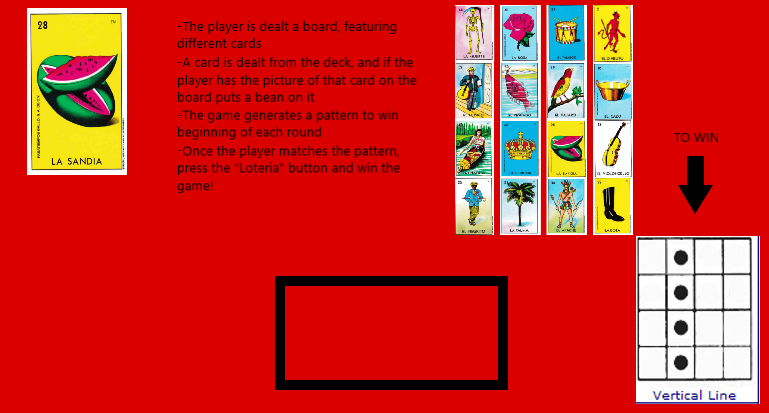
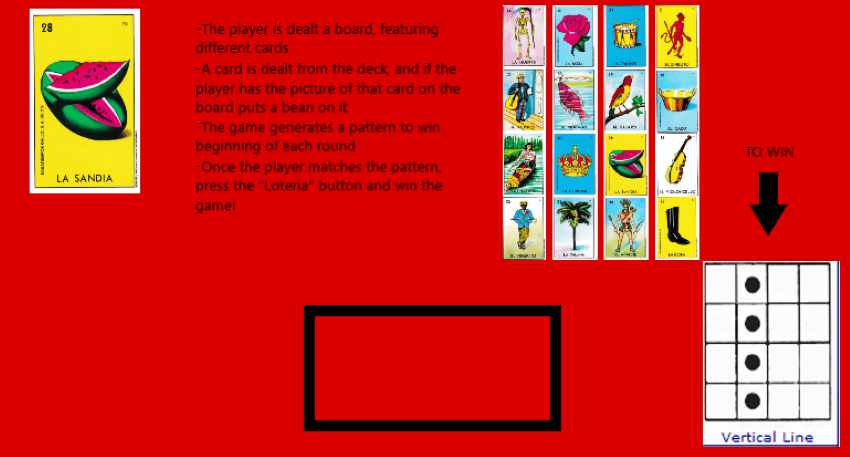
Appearance improvements
Improve the layout of the panels

diff --git a/src/Loteria_Instructions.java b/src/Loteria_Instructions.java
@@ -3,37 +3,46 @@ package Loteria_Project.src;
 import java.awt.*;
 import java.awt.event.ActionEvent;
 import java.awt.event.ActionListener;
-import java.io.File;
-import java.io.IOException;
-
 import javax.swing.*;
 import javax.swing.border.EtchedBorder;
 
 public class Loteria_Instructions extends JPanel implements ActionListener {
 	JLabel instro;
-	JButton butto; 
-	
-	
+	JButton playGame;
+	Color realRed = new Color(219, 0, 0);
+
 	public Loteria_Instructions() {
-				
+
 		ImageIcon backdrop = new ImageIcon("src/Loteria_Project/LoteriaPDF/instructions.png");
+
 		instro = new JLabel(backdrop);
-		
+
 		instro.setOpaque(true);
+
+		instro.setBounds(0, 0, 850, 550);
 		
-		instro.setBounds(769, 413, 385, 207);
+		playGame = new JButton(); 
+		playGame.setBounds(315,362,235,105); 
+		playGame.setFont(new Font("Comic Sans", Font.BOLD, 25)); 
+		playGame.setText("Play Game");
+		playGame.addActionListener(this);
+		playGame.setBackground(realRed);
 
 		
+
+		instro.setBackground(realRed);
 		add(instro);
+		add(playGame); 
 		setLayout(null);
 		setVisible(true);
-		
+
 	}
-	
-	
+
 	public void actionPerformed(ActionEvent e) {
-		// TODO Auto-generated method stub
-		
+		if (e.getSource() == playGame) {
+			LoteriaDriver.changeFrame(4);
+		}
+
 	}
 
 }

diff --git a/src/LoteriaDriver.java b/src/LoteriaDriver.java
@@ -4,6 +4,7 @@ import java.awt.Color;
 
 import javax.swing.JFrame;
 
+
 public class LoteriaDriver {
 	/** Displays Title Screen*/
 	private static JFrame displayFrame; 
@@ -17,7 +18,7 @@ public class LoteriaDriver {
 	/** Displays The Game*/ 
 	private static JFrame gameFrame; 
 	
-	Color realRed = new Color(219,0,0);
+	static Color realRed = new Color(219,0,0);
 	
     /**
      * Given an int, switches to the corresponding JFrame (1, 2, 3, or 4).
@@ -91,8 +92,11 @@ public class LoteriaDriver {
     
     private static void instro_frame(JFrame jf) {
     	jf.setSize(769, 413);
+    	jf.setBackground(realRed);
     	jf.setLocationRelativeTo( null );
-        jf.setDefaultCloseOperation(JFrame.DISPOSE_ON_CLOSE);
+        jf.pack();
+    	jf.setDefaultCloseOperation(JFrame.DISPOSE_ON_CLOSE);
+        
     }
     
     

diff --git a/src/DisplayScreen.java b/src/DisplayScreen.java
@@ -1,5 +1,6 @@
 package Loteria_Project.src;
 
+import java.awt.Color;
 import java.awt.GridLayout;
 
 import java.awt.event.ActionEvent;
@@ -20,13 +21,17 @@ public class DisplayScreen extends JPanel {
 	/** play button 
 	*/
     private JButton button;
-    
+	private Color realRed = new Color(219, 0, 0);
+
+	
     public DisplayScreen() {
         setLayout(new GridLayout(1,1));
 
         button = new JButton();
-        button.setIcon(new ImageIcon("src/Loteria_Project/LoteriaPDF/background_drop.jpg"));
+        button.setIcon(new ImageIcon("src/Loteria_Project/LoteriaPDF/Loteria_loadingscreen.png"));
         button.addActionListener(new Listener());
+        button.setBackground(realRed);
+        
 
         add(button);
     }
